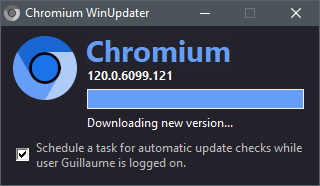
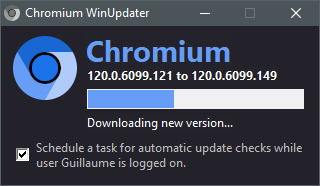
- Fix version check for self-update - Remove debug file %A_Temp%\ReleaseInfo.txt - Update README

Changed region(s): [[0.5312, 0.4839, 0.9688, 0.5914], [0.5312, 0.3763, 0.875, 0.4301]]

diff --git a/README.md b/README.md
@@ -11,7 +11,7 @@ An attempt to make updating Chromium for Windows much easier. This is a fork of 
 - Chromium WinUpdater currently defaults to [Ungoogled Chromium](https://github.com/macchrome/winchrome/releases) releases by [Marmaduke](https://github.com/macchrome). For support for other Chromium releases, please create an issue with your request.  
 - If you want to run the portable version of Chromium, download and extract the latest [`ungoogled-chromium-xxx.x.xxxx.xxx_Win64.7z`](https://github.com/macchrome/winchrome/releases/latest). Put `Chromium-WinUpdater.exe` in the same folder.  
   Then, if you wish to perform an update, just run `Chromium-WinUpdater.exe`.
-- When you have installed Chromium using the [xxx.x.xxxx.xxx_ungoogled_mini_installer.exe](https://github.com/macchrome/winchrome/releases/latest), just run `Chromium-WinUpdater.exe` from any location and point to the `chrome.exe` file. If an update is available, the new mini installer will be downloaded and installed.
+- When you have installed Chromium using the [xxx.x.xxxx.xxx_ungoogled_mini_installer.exe](https://github.com/macchrome/winchrome/releases/latest), just run `Chromium-WinUpdater.exe` from any location. If an update is available, the new mini installer will be downloaded and installed.
 
 ## Scheduled Updates
 - Run Chromium WinUpdater and select the option to automatically check for updates. This will prompt for administrative permissions and a blue (PowerShell) window will open and notify you of the result. The scheduled task will run while the current user account is logged on (at start-up and every 24 hours).
